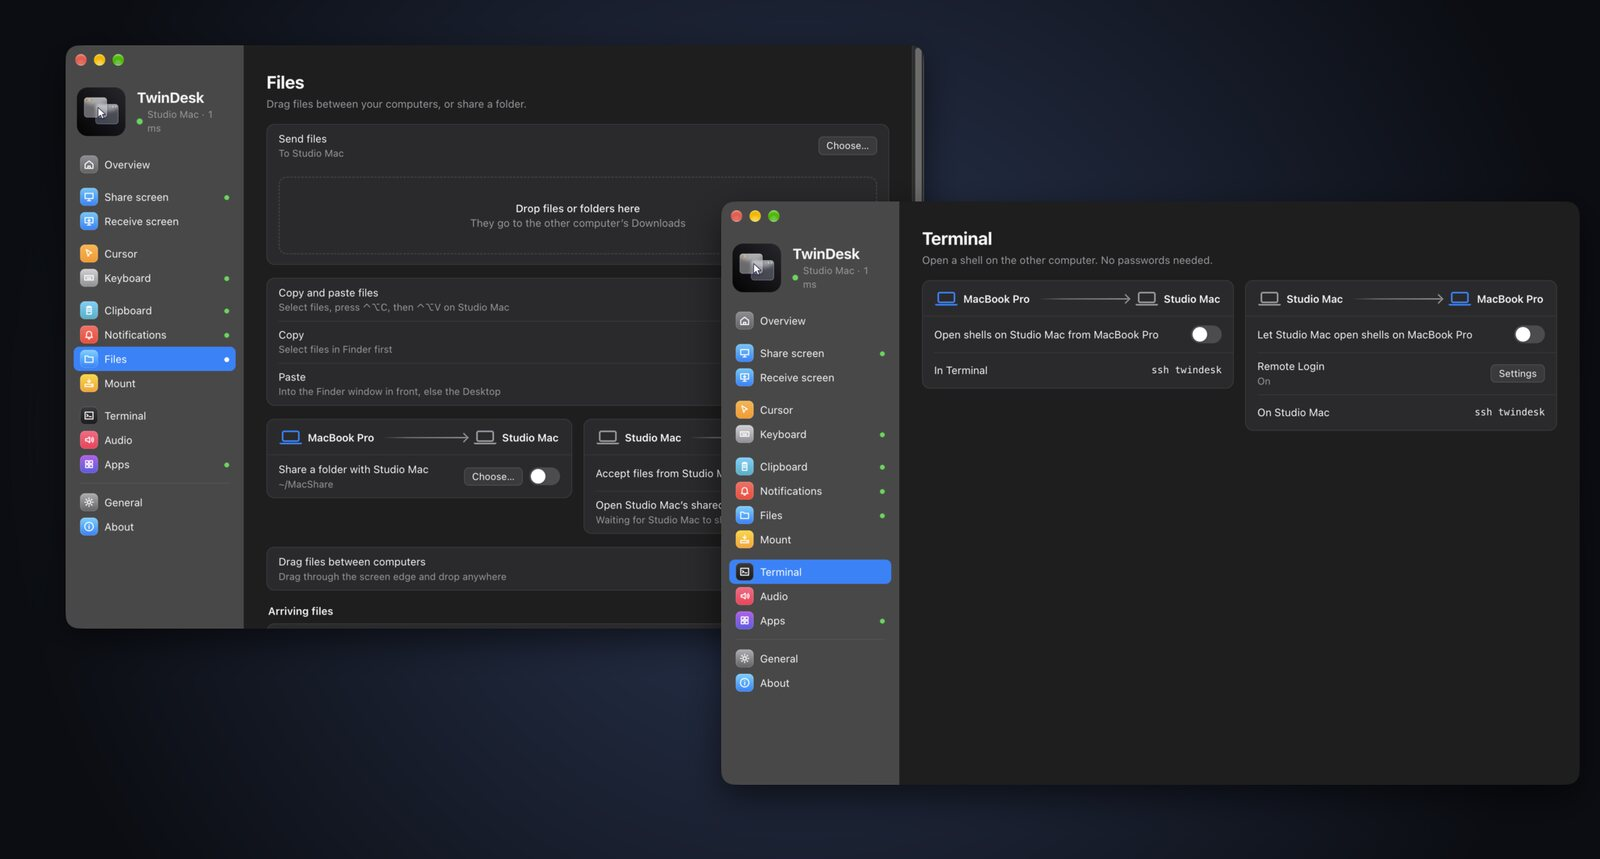
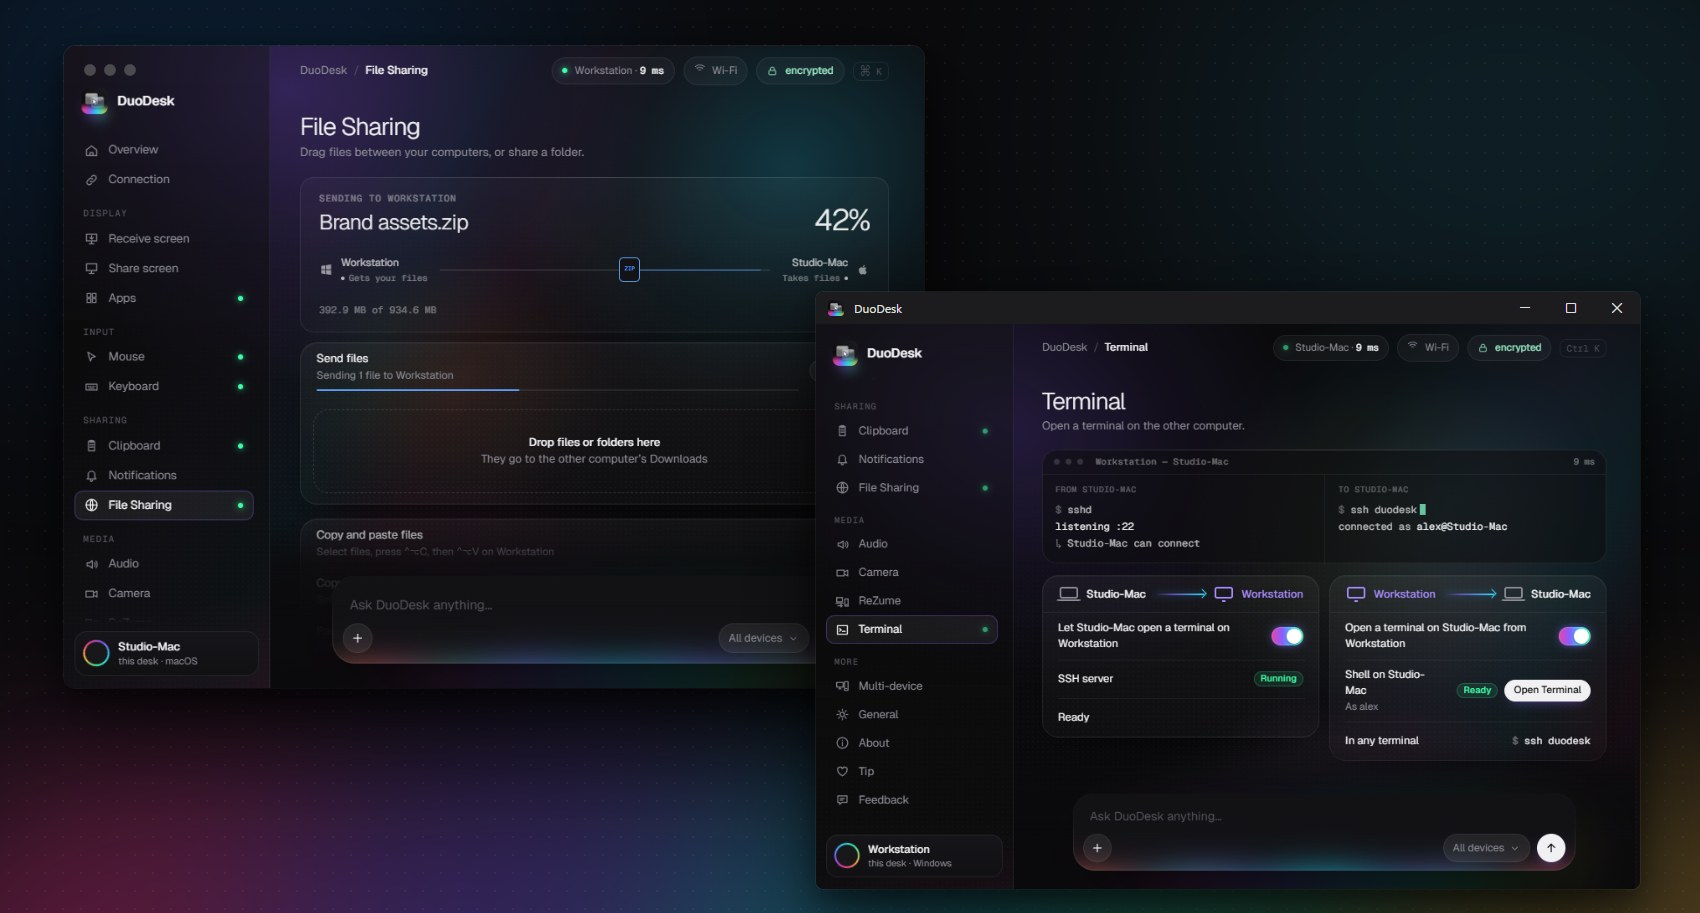
README: screenshots of the real DuoDesk app
All README pictures now show the current DuoDesk app with demo data, alt texts describe them,
and the old app's unused screenshots are gone. Mesh is no longer called a beta, the terminal
alias reads ssh duodesk, and the Intel .dmg link (not built) is removed.

diff --git a/README.md b/README.md
@@ -11,7 +11,7 @@
 </p>
 
 <p align="center">
-  <a href="#download"><b>⬇ Download 2.5 beta</b></a> ·
+  <a href="#download"><b>⬇ Download 2.5</b></a> ·
   <a href="https://getduodesk.vercel.app"><b>Website</b></a> ·
   <a href="https://github.com/0xCodez/DuoDesk"><b>Source</b></a> ·
   <a href="#-new-in-23"><b>What's new</b></a> ·
@@ -30,7 +30,7 @@
 </p>
 
 <p align="center">
-  <img src=".github/assets/hero.jpg" alt="One Mac's extended screen in a window on another Mac, the Mac's desktop extended onto a tablet, and DuoDesk on a phone" width="100%">
+  <img src=".github/assets/hero.jpg" alt="The DuoDesk Overview window, 'What should your desks do?', with cards for Workstation, Studio-Mac and Pixel 8, between a Windows PC on the left and a MacBook and a phone on the right, on one glowing desk line" width="100%">
 </p>
 
 Your devices are good at their own jobs and bad at working together. DuoDesk fixes that.
@@ -97,8 +97,7 @@ X11 and Wayland · shared folders through Samba · the phone app page by page ·
 
 **🍎 macOS**<br><sub>13 Ventura or later</sub>
 
-<a href="https://github.com/0xCodez/DuoDesk/releases/download/v2.5.0/DuoDesk-2.5.0-arm64.dmg"><img src="https://img.shields.io/badge/Apple_Silicon-.dmg-000000?style=for-the-badge" alt="macOS, Apple Silicon"></a><br>
-<a href="https://github.com/0xCodez/DuoDesk/releases/download/v2.5.0/DuoDesk-2.5.0-x64.dmg"><img src="https://img.shields.io/badge/Intel-.dmg-555555?style=for-the-badge" alt="macOS, Intel"></a>
+<a href="https://github.com/0xCodez/DuoDesk/releases/download/v2.5.0/DuoDesk-2.5.0-arm64.dmg"><img src="https://img.shields.io/badge/Apple_Silicon-.dmg-000000?style=for-the-badge" alt="macOS, Apple Silicon"></a>
 
 </td>
 <td width="25%" align="center" valign="top">
@@ -185,7 +184,7 @@ DuoDesk**, tap **⋮ › Allow restricted settings**, then turn them on.
 # ✨ New in 2.3
 
 <p align="center">
-  <img src=".github/assets/v23-whats-new.jpg" alt="DuoDesk 2.3: your phone is now a camera, a remote and a gamepad" width="100%">
+  <img src=".github/assets/v23-whats-new.jpg" alt="DuoDesk 2.3: your phone is now a camera, a remote and a gamepad. The Camera page, with one phone showing the Remote touchpad and keys and another turned sideways showing the gamepad" width="100%">
 </p>
 
 Your phone is now **a camera, a remote and a gamepad**. Use its camera in any video call, drive your
@@ -227,7 +226,7 @@ Every release's notes are on the [releases page](https://github.com/0xCodez/DuoD
 # 💻 Computer to computer
 
 <p align="center">
-  <img src=".github/assets/mac-windows.jpg" alt="A Mac connected to a Windows PC, and the PC's apps listed on the Mac" width="100%">
+  <img src=".github/assets/mac-windows.jpg" alt="DuoDesk on a Mac (Studio-Mac) connected to a Windows PC (Workstation): the Mac's Apps page lists the PC's apps, and behind it the PC's Overview shows Studio-Mac connected at 9 ms" width="100%">
 </p>
 
 The same app on every platform, so a Mac and a PC pair just like two Macs.
@@ -249,7 +248,7 @@ the other computer's screen into a window and control it from there. Low-latency
 *Fastest* and *Smooth* playback, and optional frame generation.
 
 <p align="center">
-  <img src=".github/assets/mac-screen-window.jpg" alt="The MacBook Pro's extended screen in a window on the Studio Mac, with the Receive screen settings" width="100%">
+  <img src=".github/assets/mac-screen-window.jpg" alt="Workstation's screen in a window on the Mac, with its toolbar (Extend, Mirror, Frame generation, Full screen, Stop), and the Receive screen page in front: live at 60 fps, 1920 × 1080, H.264" width="100%">
 </p>
 
 ## 🪟 The other computer's apps, in windows of their own
@@ -259,7 +258,7 @@ with its own Dock icon or Start-menu pin. No full remote desktop, just the app y
 your own.
 
 <p align="center">
-  <img src=".github/assets/mac-apps.jpg" alt="Chess, Clock and Calculator from one Mac running in their own windows on the other Mac" width="100%">
+  <img src=".github/assets/mac-apps.jpg" alt="The Mac's Apps page with Paint, Notepad and Terminal from Workstation open in their own windows, and behind it the PC's Apps page with 3 windows on Studio-Mac" width="100%">
 </p>
 
 ## 📷 Camera sharing
@@ -279,10 +278,10 @@ Camera** (or DuoDesk's own camera extension, in builds signed for it).
 paste with <kbd>⌃⌥V</kbd> (<kbd>Ctrl+Alt+C/V</kbd> on Windows and Linux), into a folder or straight
 into the app in front. Send from the macOS Share menu or Explorer's *Send to*, or **share a folder**
 that shows up as a network drive on the other side. Files on their way show **live progress**.
-Need a shell? `ssh twindesk` opens one on the other computer, no passwords needed.
+Need a shell? `ssh duodesk` opens one on the other computer, no passwords needed.
 
 <p align="center">
-  <img src=".github/assets/computers-files.jpg" alt="The Files page and the Terminal page" width="100%">
+  <img src=".github/assets/computers-files.jpg" alt="The File Sharing page on the Mac sending Brand assets.zip to Workstation, and the Terminal page on the PC with the shell on Studio-Mac ready (ssh duodesk)" width="100%">
 </p>
 
 ## 📋 Shared clipboard
@@ -293,7 +292,7 @@ the Mac. Entries from password managers are skipped, and a Recent list keeps the
 you copied, pictures with a preview.
 
 <p align="center">
-  <img src=".github/assets/computers-clipboard.jpg" alt="The same copied text in the clipboard history on both Macs" width="100%">
+  <img src=".github/assets/computers-clipboard.jpg" alt="The same three copied texts in the clipboard history on the Mac and on the Windows PC, marked To Workstation on one and From Studio-Mac on the other" width="100%">
 </p>
 
 ## 🔔 Notifications, sound and Wake-on-LAN
@@ -311,7 +310,7 @@ All from the Overview, the menu bar or the tray.
 ## 🕸 DuoDesk Mesh: every device at once
 
 <p align="center">
-  <img src=".github/assets/v22-mesh-desk.jpg" alt="The pointer travelling from a Windows PC across a MacBook and a Linux laptop onto a phone, with the desk map below" width="100%">
+  <img src=".github/assets/v22-mesh-desk.jpg" alt="One mouse, every screen: the pointer's path across a Windows PC, a MacBook, a Linux laptop and a phone, with the Multi-device layout map of Workstation, Studio-Mac, ThinkPad and Pixel 8 below" width="100%">
 </p>
 
 Your laptop, your desktop, the Linux box in the corner and your phone, **all connected at once**,
@@ -322,9 +321,9 @@ each talking straight to the others with no hub in between.
 - **One notification pool.** Your phone buzzes, and every computer shows it.
 - **Pair once, join all.** A new device paired with one computer meets the rest by itself.
 
-Mesh is in **beta** on Windows, Mac and Linux: turn it on in the **Multi-device** tab, and off again
+Mesh works on Windows, Mac and Linux: turn it on in the **Multi-device** tab, and off again
 any time with everything as you left it. Connecting just two devices? You won't need it. Still
-coming to Mesh: the Camera, pictures on the clipboard, and files dragged to more than one device at a
+coming to Mesh: pictures on the clipboard, and files dragged to more than one device at a
 time; the phone connects to one computer at a time, and Linux joins over the same Wi-Fi only.
 
 ---
@@ -346,7 +345,7 @@ Read and reply to your texts on **Messages**: every conversation, pictures inclu
 the sidebar.
 
 <p align="center">
-  <img src=".github/assets/v21-calls-messages.jpg" alt="The Calls page with an incoming call and the call history, and the Messages page with a conversation" width="100%">
+  <img src=".github/assets/v21-calls-messages.jpg" alt="DuoDesk with Pixel 8 connected: the Calls page with an incoming call from Alex and the recent calls, and the Messages page with a conversation" width="100%">
 </p>
 
 ## 🖼 Photos and phone files
@@ -358,7 +357,7 @@ Finder, Explorer or the Linux file manager, and one the computer shares shows up
 Files app.
 
 <p align="center">
-  <img src=".github/assets/v21-photos-files.jpg" alt="The Photos page with the phone's gallery, and Phone Files with shared folders and the phone's storage" width="100%">
+  <img src=".github/assets/v21-photos-files.jpg" alt="The Photos page with the phone's gallery, and the Phone Files page with the phone's free space, folders shared both ways and its storage" width="100%">
 </p>
 
 ## 📷 Phone camera
@@ -370,7 +369,7 @@ from the phone's own Camera page.
 ## 🎮 Remote and gamepad
 
 <p align="center">
-  <img src=".github/assets/v23-remote.jpg" alt="The phone's Remote: a touchpad with a row of keys, and the gamepad laid out like an Xbox controller" width="100%">
+  <img src=".github/assets/v23-remote.jpg" alt="The phone's Remote: the touchpad with a row of keys and left and right click, and the gamepad held sideways, laid out like an Xbox controller" width="100%">
 </p>
 
 The phone's **Remote** page turns it into the computer's remote, for the couch or a presentation:
@@ -399,7 +398,7 @@ Pin them to the Dock or the Start menu and use them like any other app. In Whats
 Telegram, Enter sends.
 
 <p align="center">
-  <img src=".github/assets/phone-on-mac.jpg" alt="The tablet's home screen in a Mac window, and Calculator, Calendar and Clock open as separate Mac windows" width="100%">
+  <img src=".github/assets/phone-on-mac.jpg" alt="The Phone apps page listing the phone's apps, and the Mirroring page with the phone screen, Calculator, Calendar and Clock open as their own windows on the computer" width="100%">
 </p>
 
 ## 🖥 Tablet as a second screen
@@ -408,7 +407,7 @@ Turn a tablet or phone into an **extra monitor**. **Extend** for more desktop sp
 to show what's on your screen. Use touch as the mouse, or switch on touchpad mode.
 
 <p align="center">
-  <img src=".github/assets/second-screen.jpg" alt="Share screen settings on the Mac, and the tablet showing the extended Mac desktop" width="100%">
+  <img src=".github/assets/second-screen.jpg" alt="The Share screen page sharing Workstation to Galaxy Tab in Extend mode at 2560 × 1600 and 60 fps, and the tablet showing the extended screen" width="100%">
 </p>
 
 ## 📤 Files, clipboard, notifications, mouse and keyboard
@@ -421,7 +420,7 @@ to show what's on your screen. Use touch as the mouse, or switch on touchpad mod
   type with your real keyboard in any Android app.
 
 <p align="center">
-  <img src=".github/assets/share-files.jpg" alt="The Mac's Files page, the Android share menu with Send to computer and Copy to computer, and a received-file notification on the tablet" width="100%">
+  <img src=".github/assets/share-files.jpg" alt="The File Sharing page sending Trip photos.zip to Pixel 8, next to the Clipboard page with the latest copy from Pixel 8 and the Notifications page with Pixel 8's notifications" width="100%">
 </p>
 
 ## 📱 The Android app
@@ -430,7 +429,7 @@ The Android app adapts to the device: tabs at the bottom on a phone, a full side
 Every page names the computer you're connected to and shows what's shared in each direction.
 
 <p align="center">
-  <img src=".github/assets/android-phone.jpg" alt="The Android app on a phone: Overview, Screen, Files, Clipboard and More" width="100%">
+  <img src=".github/assets/android-phone.jpg" alt="DuoDesk on the computer with Pixel 8 connected (its battery and what it shares), and the Android app's Remote page on the phone" width="100%">
 </p>
 
 ---
@@ -438,7 +437,7 @@ Every page names the computer you're connected to and shows what's shared in eac
 # 📡 Connections
 
 <p align="center">
-  <img src=".github/assets/v21-connections.jpg" alt="Same Wi-Fi, Bluetooth LE, Wi-Fi Direct, phone hotspot and USB cable" width="100%">
+  <img src=".github/assets/v21-connections.jpg" alt="Five ways to link: same Wi-Fi, Bluetooth LE, Wi-Fi Direct, phone hotspot and USB cable, next to the Connection page with a Bluetooth link at 38 ms" width="100%">
 </p>
 
 You never have to choose. DuoDesk uses the same network when there is one, moves a phone onto
@@ -457,7 +456,7 @@ phone's **hotspot**.
 | Mouse and keyboard, remote | ✅ | ✅ | ✅ | ✅ |
 | Calls and texts | ✅ | ✅ | ✅ | ✅ |
 | Screens, apps, cameras, files, photos, clipboard pictures | ✅ | ✅ | moves to Wi-Fi Direct | ✅ |
-| Terminal between computers (`ssh twindesk`) | ✅ | — | on Wi-Fi Direct | ✅ |
+| Terminal between computers (`ssh duodesk`) | ✅ | — | on Wi-Fi Direct | ✅ |
 
 Who can turn up over Bluetooth is up to you: **Bluetooth with phones** (on) and **Bluetooth with
 computers** (off until you want it), on the Overview and in General.
@@ -467,7 +466,7 @@ computers** (off until you want it), on the Overview and in General.
 # 🚀 Get started
 
 <p align="center">
-  <img src=".github/assets/tour.gif" alt="A tour of the DuoDesk window" width="820">
+  <img src=".github/assets/tour.gif" alt="A tour of the DuoDesk window: Overview, Mouse, Clipboard, Share screen, Camera and File Sharing" width="820">
 </p>
 
 1. **Download** DuoDesk for each computer and your phone ([above](#download), or from the [releases](https://github.com/0xCodez/DuoDesk/releases)).
@@ -485,7 +484,7 @@ Accessibility come with the full app, which the computer installs once over wire
 | Mac ↔ Windows PC, Mac ↔ Mac, PC ↔ PC | Every computer feature |
 | Linux ↔ Mac, PC or Linux | Every computer feature ([a few differences](#linux)) |
 | Android ↔ Mac, Windows or Linux | Every phone and tablet feature (Real gamepad on Windows and Linux) |
-| All of them at once | [DuoDesk Mesh](#-duodesk-mesh-every-device-at-once) (beta) |
+| All of them at once | [DuoDesk Mesh](#-duodesk-mesh-every-device-at-once) |
 
 ## Privacy
 
@@ -585,10 +584,10 @@ touch, your mouse and keyboard on the phone and its sound go through **wireless 
 DuoDesk pairs with once:
 
 <p align="center">
-  <img src=".github/assets/ui-phone-pair.jpg" alt="Overview: the wireless debugging card under the connected computers, with the pairing code" width="820">
+  <img src=".github/assets/ui-phone-pair.jpg" alt="Connection page: the wireless debugging card under the connected computers, with the 6-digit pairing code" width="820">
 </p>
 
-- Until it's paired, a card under the connected computers on Overview (on the computer and on the
+- Until it's paired, a card under the connected computers on Connection (on the computer and on the
   phone) walks you through it. Open *Developer options › Wireless debugging › Pair device with
   pairing code* on the phone and type the 6-digit code on the computer, or on the phone in
   DuoDesk's notification (Settings' dialog stays open). The phone sends the code to whichever
